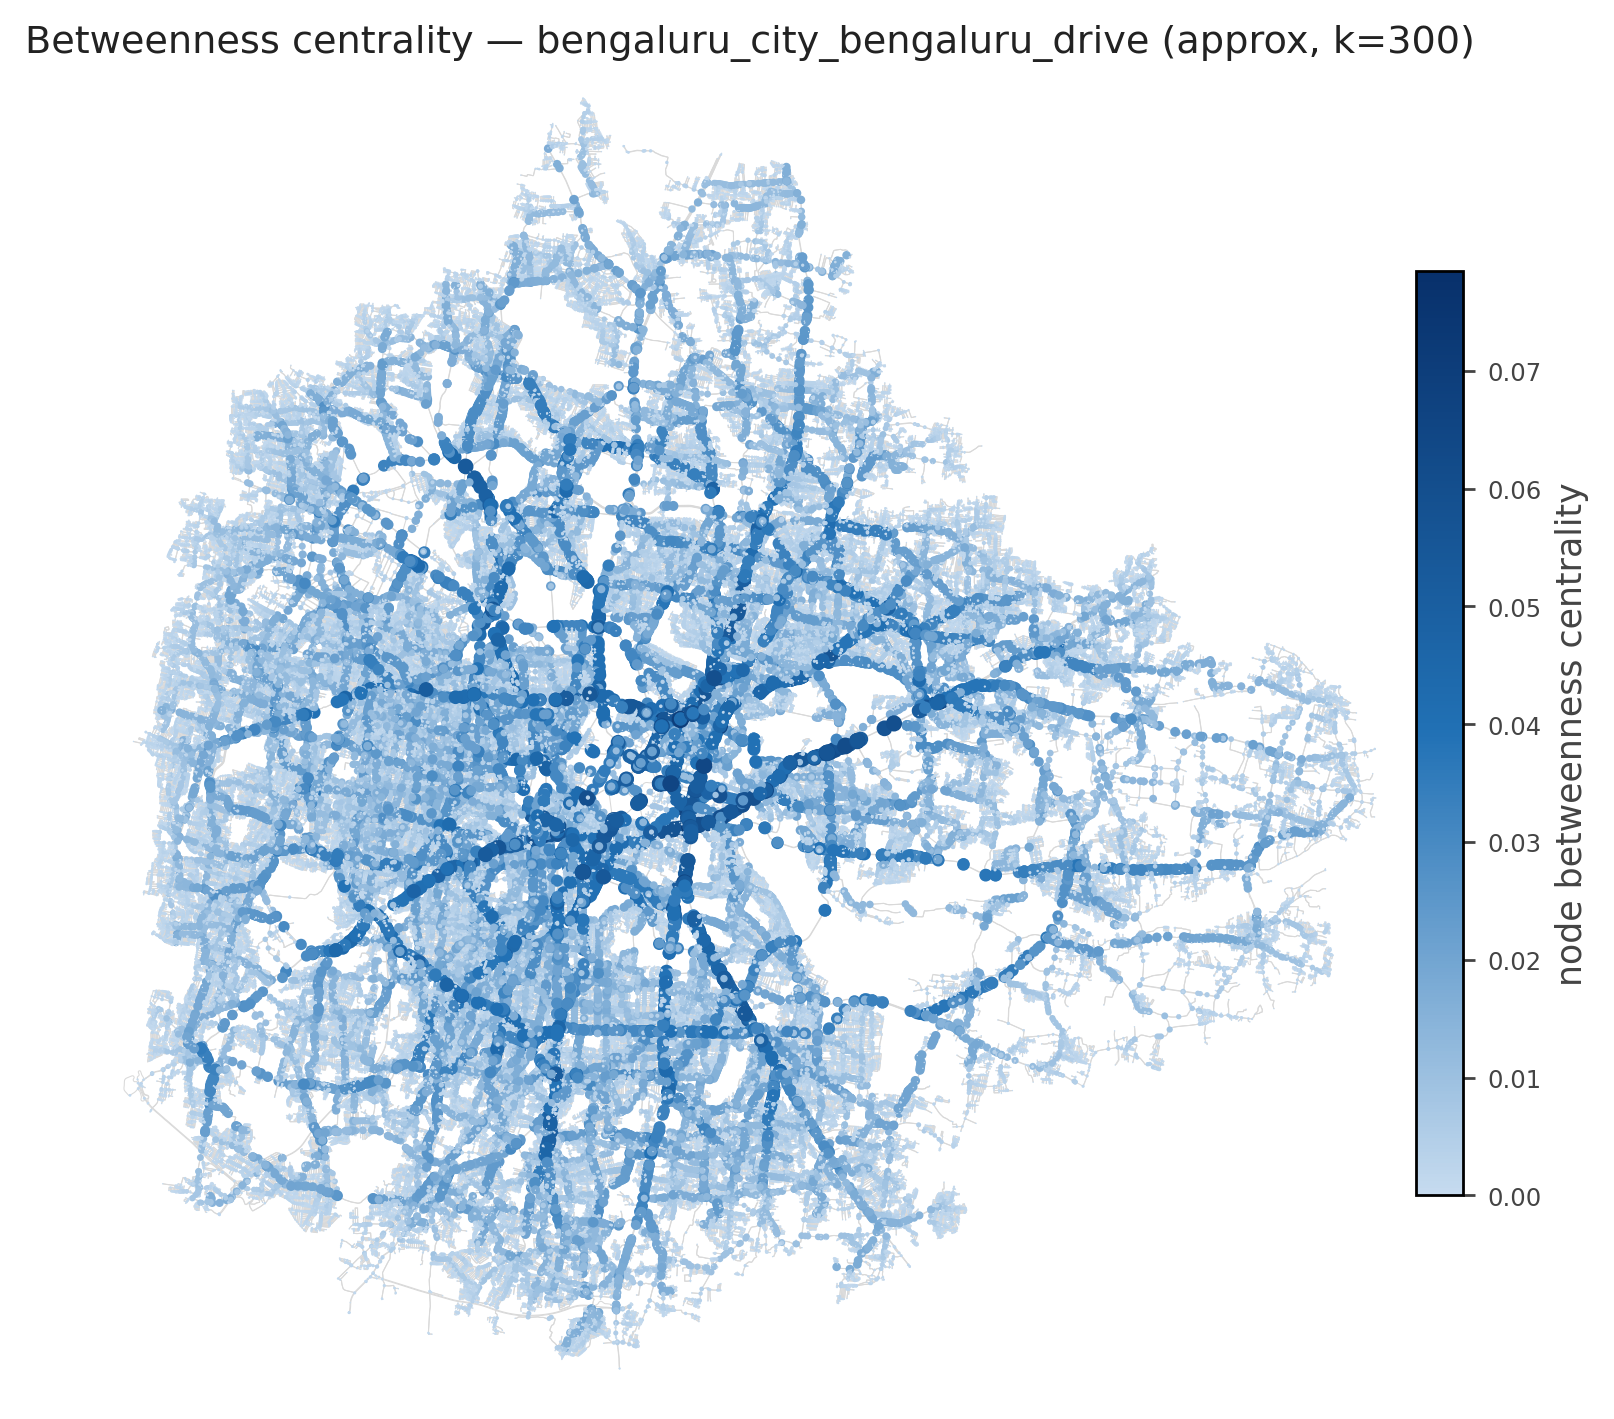
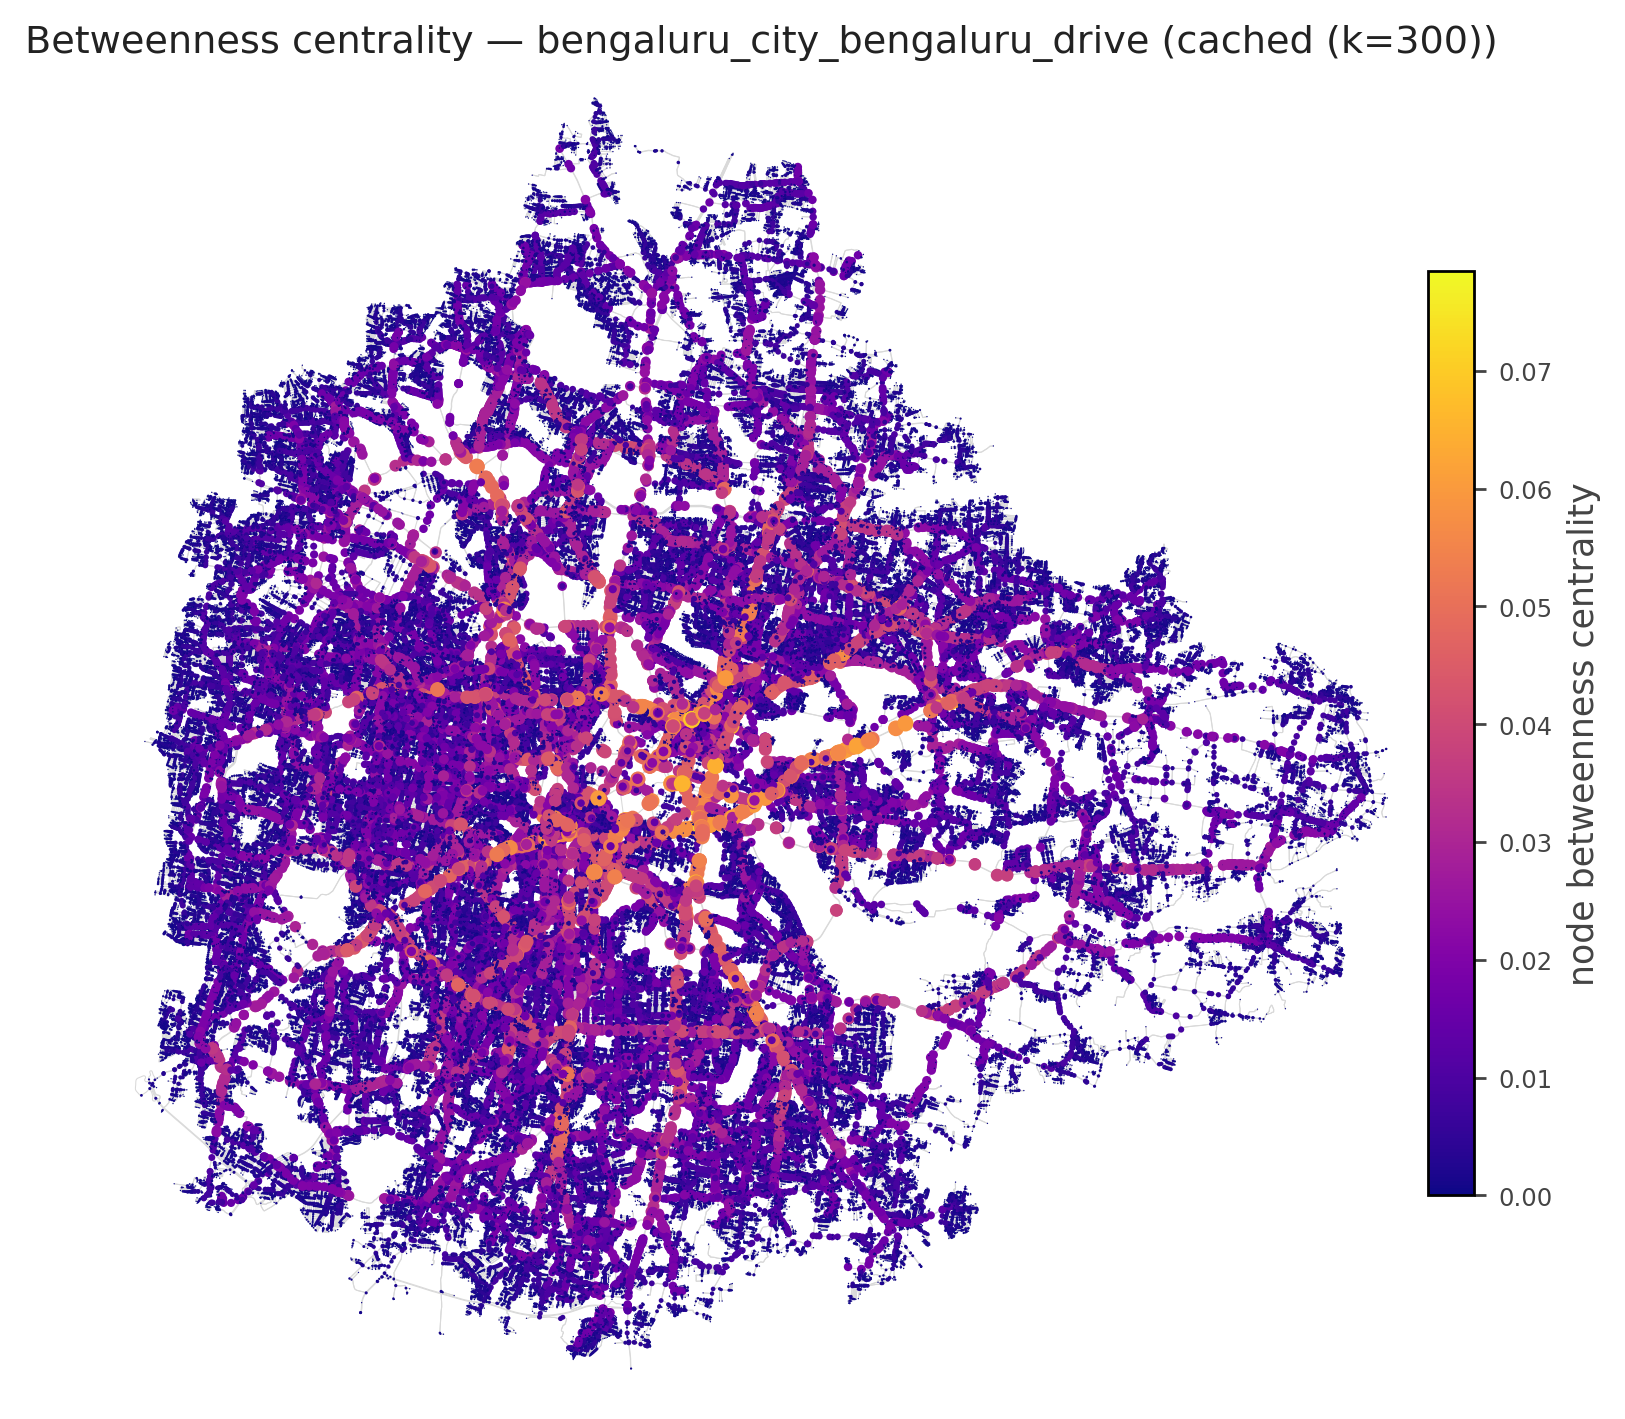
Update map color schemes: replace low-contrast blue-to-white ramps with high-contrast palettes (inferno, magma, plasma, blue-amber-red)

diff --git a/tools/analyze_network.py b/tools/analyze_network.py
@@ -62,7 +62,13 @@ log(f"largest strongly connected component: {Gs.number_of_nodes():,} nodes "
 # ---------------------------------------------------------------- betweenness
 D = ox.convert.to_digraph(Gs, weight="length")   # collapse parallel edges, keep shortest
 nD = D.number_of_nodes()
-if nD <= EXACT_LIMIT:
+bc_file = f"results/{tag}_node_bc.npz"
+if os.path.exists(bc_file):
+    z = np.load(bc_file, allow_pickle=True)
+    bc = dict(zip(z["nodes"].tolist(), z["bc"]))
+    bc_kind = "cached (k=300)"
+    log(f"loaded cached betweenness from {bc_file}")
+elif nD <= EXACT_LIMIT:
     log(f"computing EXACT betweenness centrality on {nD:,} nodes ...")
     bc = nx.betweenness_centrality(D, weight="length", normalized=True)
     bc_kind = "exact"
@@ -152,7 +158,9 @@ log("plotting betweenness map ...")
 # single-hue sequential ramp (light -> dark blue) on sqrt scale; faint gray base net
 bvals = np.array([bc[nd] for nd in Gs.nodes])
 norm = mpl.colors.Normalize(vmin=0, vmax=np.sqrt(bvals.max()) or 1)
-cmap = mpl.colors.LinearSegmentedColormap.from_list("blues1", ["#c6dbef", "#2171b5", "#08306b"])
+# plasma: dark purple → magenta → yellow, perceptually uniform, no near-white
+# tail that washes into the white background.
+cmap = mpl.colormaps["plasma"]
 nc = [cmap(norm(np.sqrt(b))) for b in bvals]
 ns = list(0.15 + 28 * np.sqrt(bvals / (bvals.max() or 1)))
 fig, ax = ox.plot_graph(Gs, bgcolor="white", node_color=nc, node_size=ns, node_zorder=2,

diff --git a/tools/render_dark_maps.py b/tools/render_dark_maps.py
@@ -30,10 +30,12 @@ os.makedirs("figures", exist_ok=True)
 
 SURFACE, BASE, INKD = "#1a1a19", "#3a3a37", "#f0efec"
 SUBD = "#c3c2b7"
-BLUE_RAMP = mpl.colors.LinearSegmentedColormap.from_list(
-    "dkblue", ["#232b36", "#3987e5", "#bcd9ff"])
-ECC_RAMP = mpl.colors.LinearSegmentedColormap.from_list(
-    "dkecc", ["#2e5f98", "#3f8ef0", "#d6ecff"])
+# inferno: black→red→orange→yellow — high contrast on dark background, no
+# near-white tail that bleeds into the dark canvas.
+BLUE_RAMP = mpl.colormaps["inferno"]
+# magma: similar but slightly cooler purple base — good for eccentricity
+# (continuous spatial gradient, perceptually uniform).
+ECC_RAMP  = mpl.colormaps["magma"]
 ORANGE = "#ff8a3d"
 
 

diff --git a/tools/hub_bottlenecks.py b/tools/hub_bottlenecks.py
@@ -205,8 +205,8 @@ names = [n for n, _ in hubs]
 fig = plt.figure(figsize=(21, 13), dpi=160)
 fig.patch.set_facecolor(SURFACE)
 gs = fig.add_gridspec(2, 3, width_ratios=[1, 1, 1.6], hspace=0.35, wspace=0.3)
-# red = worse connection, blue = better; light neutral middle stays visible on the dark surface
-HIGH_BAD = mpl.colors.LinearSegmentedColormap.from_list("hb", ["#3987e5", "#e8e6df", "#e34948"])
+# red = worse connection, blue = better; amber/gold middle stays vividly distinguishable on dark surfaces without fading into white
+HIGH_BAD = mpl.colors.LinearSegmentedColormap.from_list("hb", ["#1e88e5", "#ffb300", "#e53935"])
 LOW_BAD = HIGH_BAD.reversed()
 
 

diff --git a/tools/depth_diameter.py b/tools/depth_diameter.py
@@ -99,8 +99,7 @@ from matplotlib.collections import LineCollection
 
 x = np.array([xs[u] for u in nodes]); y = np.array([ys[u] for u in nodes])
 segs = np.array([[[xs[u], ys[u]], [xs[v], ys[v]]] for u, v in S.edges])
-CMAP = mpl.colors.LinearSegmentedColormap.from_list(
-    "blues1", ["#dbe9f6", "#2a78d6", "#08306b"])
+CMAP = mpl.colormaps["plasma"]  # dark purple → yellow: no near-white tail on white bg
 
 fig, ax = plt.subplots(figsize=(11, 11), dpi=220)
 ax.add_collection(LineCollection(segs, colors="#e3e2da", linewidths=0.25, zorder=1))

diff --git a/tools/degree_correlations.py b/tools/degree_correlations.py
@@ -194,7 +194,7 @@ ax = fig.add_subplot(gs[0])
 style(ax)
 disp = np.ma.masked_less_equal(ejk[1:, 1:], 0)
 im = ax.imshow(disp, origin="lower", extent=(0.5, kmax + 0.5, 0.5, kmax + 0.5),
-               cmap=mpl.colors.LinearSegmentedColormap.from_list("dk", ["#232b36", BLUE, "#bcd9ff"]),
+               cmap=mpl.colormaps["inferno"],
                norm=mpl.colors.LogNorm(vmin=disp.min(), vmax=disp.max()))
 ax.set_xlabel("degree j at one end of an edge", color=SUBD)
 ax.set_ylabel("degree k at the other end", color=SUBD)

diff --git a/tools/betweenness_edges.py b/tools/betweenness_edges.py
@@ -48,7 +48,7 @@ else:
 import matplotlib as mpl
 import matplotlib.pyplot as plt
 
-BLUES = mpl.colors.LinearSegmentedColormap.from_list("blues1", ["#dbe9f6", "#2171b5", "#08306b"])
+BLUES = mpl.colormaps["plasma"]  # dark purple → yellow: no near-white tail on white bg
 
 log("rendering edge-painted betweenness map ...")
 ev = np.array([(bc.get(u, 0.0) + bc.get(v, 0.0)) / 2 for u, v, _ in Gs.edges(keys=True)])
